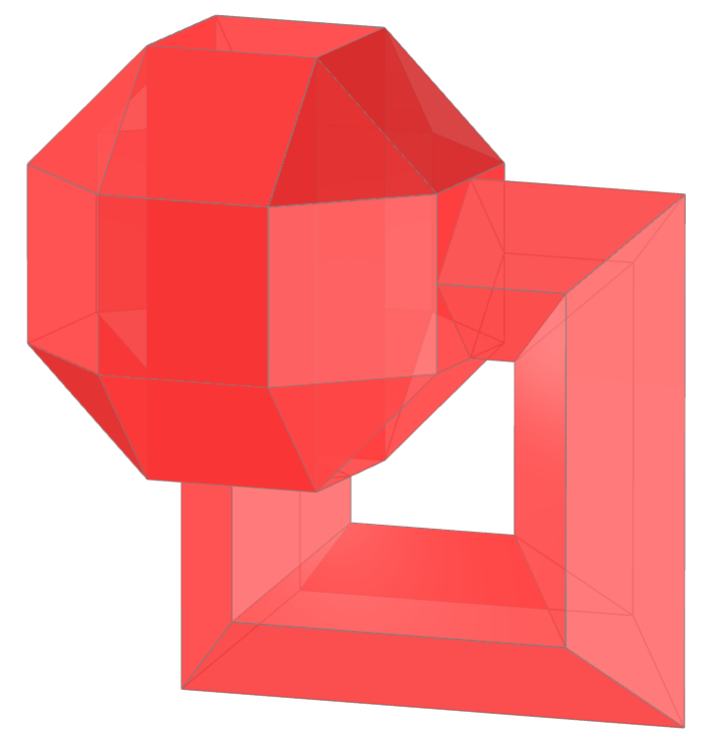
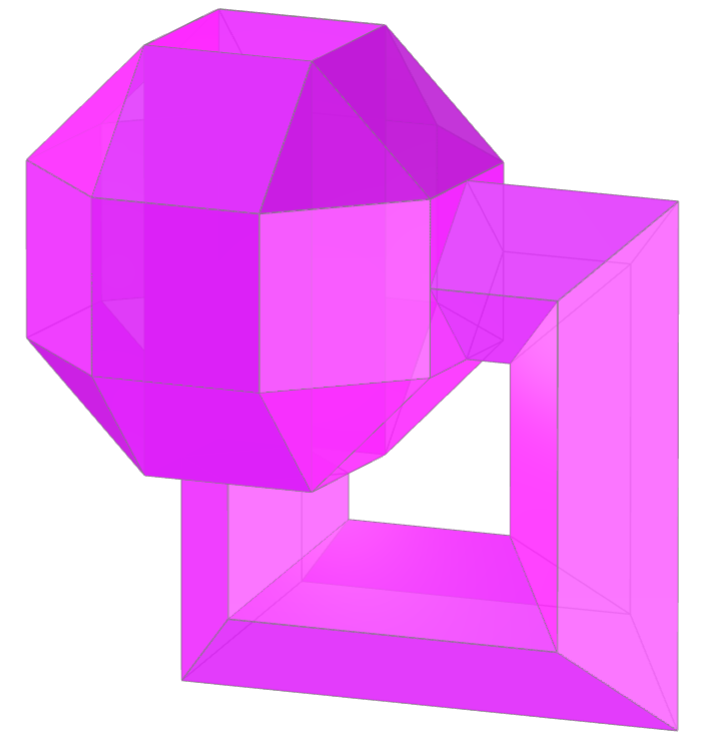
update

diff --git a/heptadodekleinbottle/vr/Rhombicuboctahedron2.html b/heptadodekleinbottle/vr/Rhombicuboctahedron2.html
@@ -27,7 +27,7 @@
 			<a-mixin id="s12_2t" position="0 -1.5 0.866"></a-mixin> <!--apotema do triangulo + metade da aresta -->
 			<a-mixin id="s12_3q" position="0 2.1213 0"></a-mixin> <!--apotema do solido-->
 			<a-mixin id="s12_3t" position="0 0.627 0"></a-mixin> <!--apotema do solido-->
-			<a-asset-item id="mt" src="https://paulohscwb.github.io/polyhedra2/fractalnonconvex/vr/outros/c1b.mtl"></a-asset-item>
+			<a-asset-item id="mt" src="https://paulohscwb.github.io/polyhedra2/fractalnonconvex/vr/outros/c3a.mtl"></a-asset-item>
 			<a-mixin id="fc" scale="1.25 1.25 1.25" obj-model="obj: #aq; mtl: #mt"></a-mixin>
 			<a-mixin id="ar" scale="1.25 1.25 1.25" obj-model="obj: #aq1; mtl: #mt"></a-mixin>
 			<a-asset-item id="aq" src="obj/Rhombicuboctahedron2.obj"></a-asset-item>
